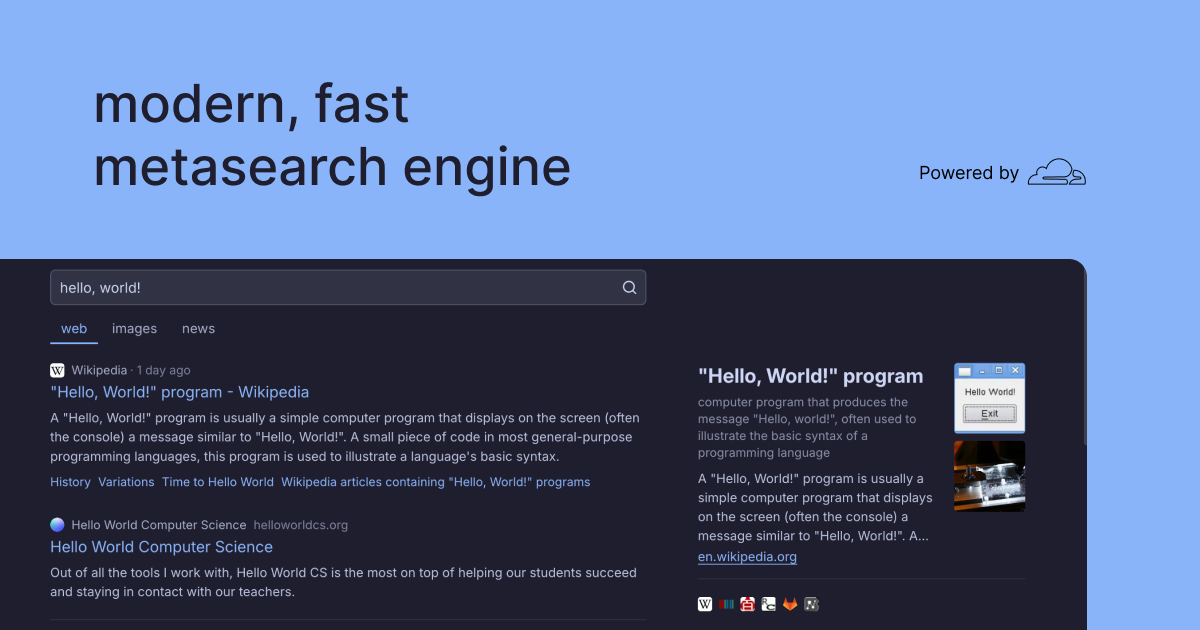
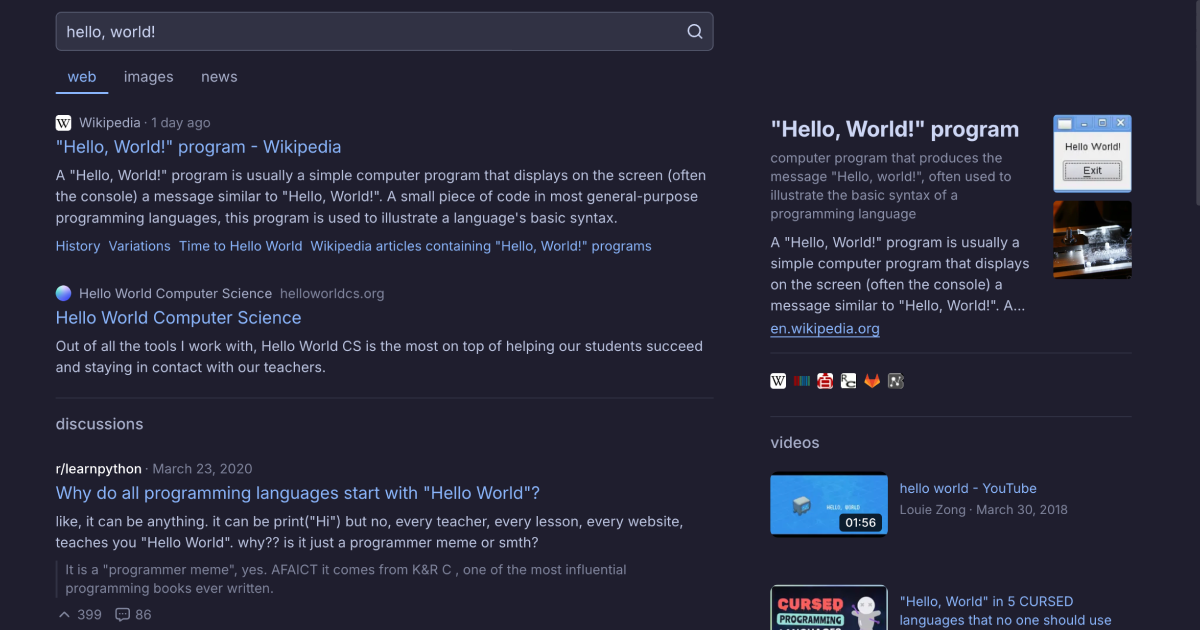
update meta tags, again

diff --git a/public/index.html b/public/index.html
@@ -4,7 +4,8 @@
     <meta charset="UTF-8" />
     <meta name="viewport" content="width=device-width, initial-scale=1.0" />
     <title>search!</title>
-    <meta name="theme-color" content="#1f1e2e" />
+    <meta name="theme-color" content="#89B4FA" />
+    <meta property="og:color" content="#89B4FA">
     <link rel="icon" href="/s/favicon.svg">
     <style>
       * {
@@ -210,7 +211,7 @@
     <meta name="title" content="search.tiago.zip: fast, beautiful metasearch engine" />
     <meta
       name="description"
-      content="search.tiago.zip is a metasearch engine that scrapes results from brave search, powered by cloudflare workers. it doesn't track you and, unlike many other metasearch engines such as Searx, feels fast and looks nice."
+      content="fast, modern, privacy-friendly metasearch engine powered by cloudflare workers"
     />
 
     <meta property="og:type" content="website" />
@@ -221,7 +222,7 @@
     />
     <meta
       property="og:description"
-      content="search.tiago.zip is a metasearch engine that scrapes results from brave search, powered by cloudflare workers. it doesn't track you and, unlike many other metasearch engines such as Searx, feels fast and looks nice."
+      content="fast, modern, privacy-friendly metasearch engine powered by cloudflare workers"
     />
     <meta
       property="og:image"
@@ -241,7 +242,7 @@
     />
     <meta
       name="twitter:description"
-      content="search.tiago.zip is a metasearch engine that scrapes results from brave search, powered by cloudflare workers. it doesn't track you and, unlike many other metasearch engines such as Searx, feels fast and looks nice."
+      content="fast, modern, privacy-friendly metasearch engine powered by cloudflare workers"
     />
     <meta
       name="twitter:image"
